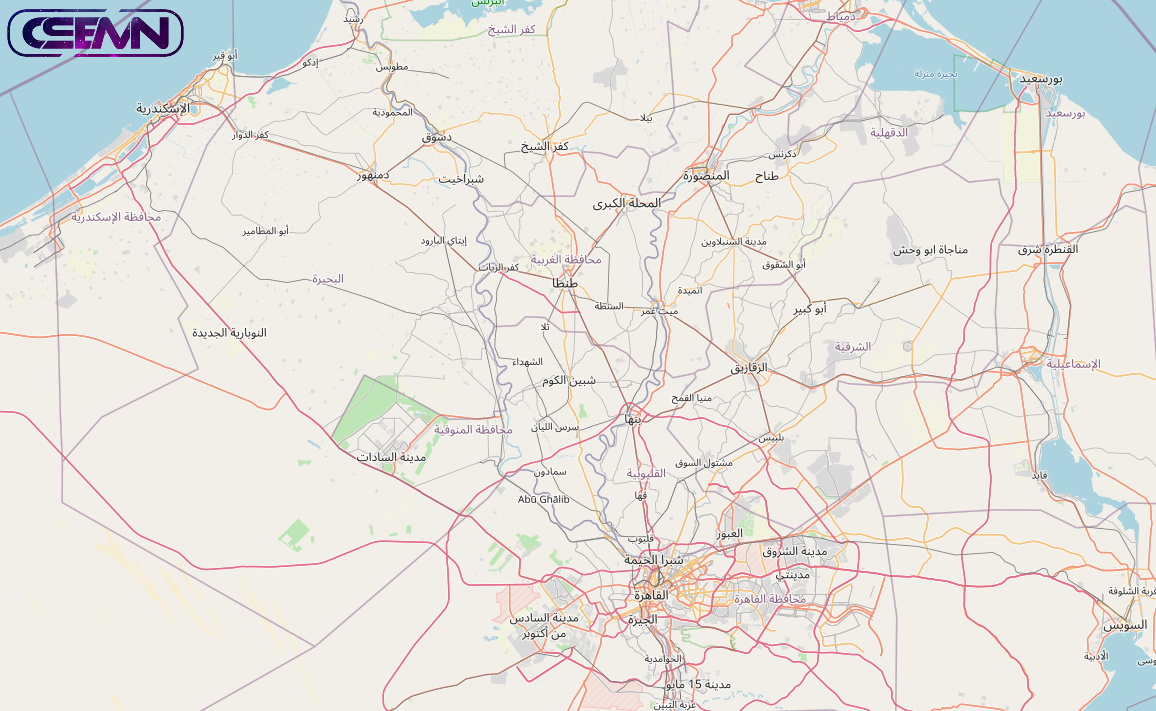
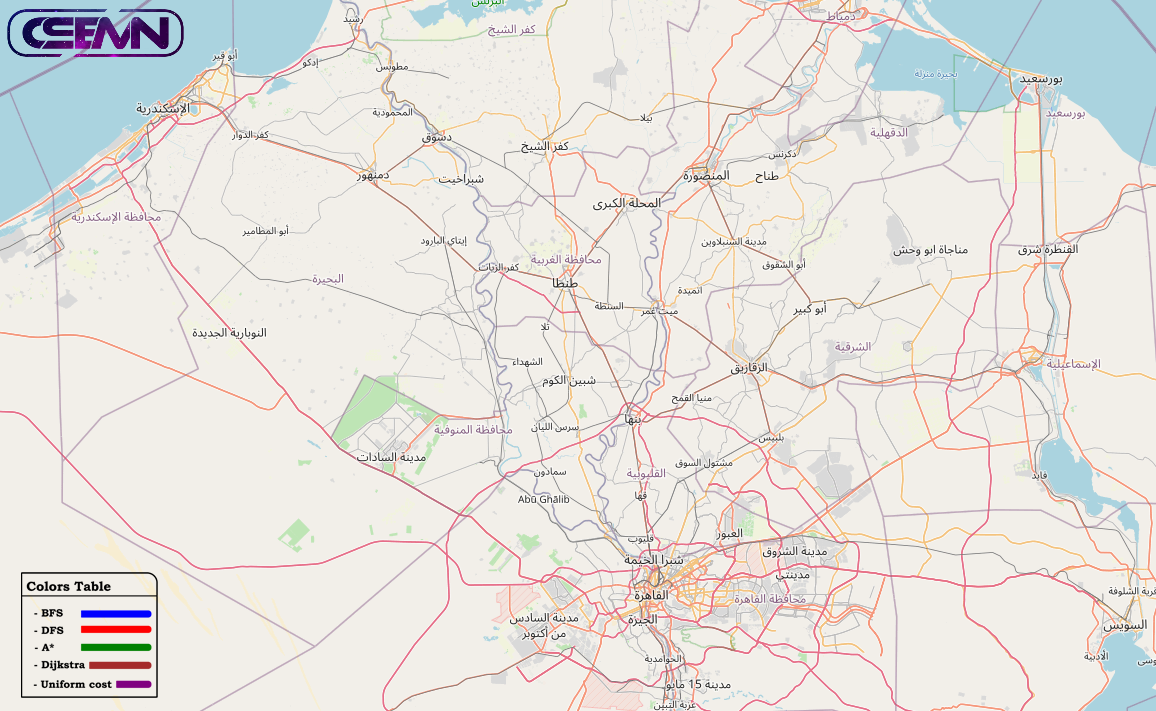
v1.7 update
Major updates:
- BFS implementation fixed
- DFS implementation fixed (need more work)
Minor updates:
- added button to clear map
- added colors to each algorithm arrow drawing

Changed region(s): [[0.0, 0.8045, 0.1557, 0.9902]]

diff --git a/AppGUI/UserEntryFrame.py b/AppGUI/UserEntryFrame.py
@@ -4,8 +4,8 @@ from tkinter import messagebox
 from MiniScripts import CSVManip
 from MiniScripts.GeoCalculator import calc_pixels
 from search_algorithm.a_star import a_star_search
-from search_algorithm.breadth_first import pickBestBFS
-from search_algorithm.deepth_first import pickBestDFS
+from search_algorithm.breadth_first import bfs
+from search_algorithm.deepth_first import dfs
 import time
 from threading import Thread
 
@@ -18,6 +18,7 @@ class UserEntryFrame(Frame):
         Frame.__init__(self, master)
         
         self.lblFrame=LabelFrame(master,text='User Entry')
+        self.drawingColor='black'
         
         #circle all cities on the map
         #self.pinpointAllCities(pinPoint)
@@ -28,9 +29,12 @@ class UserEntryFrame(Frame):
         self.algoSelector = ttk.OptionMenu(self.lblFrame, self.algo, "Uniform Cost","BFS", "DFS","A*","Dijkstra","Uniform Cost")
         self.algoSelector.grid(row=0,column=0,rowspan=2,padx=(10,5))
         self.isThreadRunning=False
-        self.btn=ttk.Button(self.lblFrame,text='GO !!!',command=lambda :self.onClickAction(pinPoint,drawArrow,clearMap))
+        self.btn=ttk.Button(self.lblFrame,text='GO !!!',command=lambda :self.onClickAction(pinPoint,drawArrow))
+        
+        self.btn.grid(row=0,column=2,padx=(0,10))
+        self.btnClear=ttk.Button(self.lblFrame,text='Clear',command=clearMap)
+        self.btnClear.grid(row=1,column=2,padx=(0,10))
         self.btnStat()
-        self.btn.grid(row=0,column=2,rowspan=2,padx=(0,10))
         
        
         self.fromSelector = CitySelector(self.lblFrame,'From',None)
@@ -43,10 +47,12 @@ class UserEntryFrame(Frame):
     def btnStat(self):
         if self.isThreadRunning:
             self.btn["state"] = DISABLED
+            self.btnClear["state"] = DISABLED
         else:
             self.btn["state"] = NORMAL
+            self.btnClear["state"] = NORMAL
 
-    def onClickAction(self,pin_point,draw_arrow,clearMap):
+    def onClickAction(self,pin_point,draw_arrow):
 
         #check if cities exists
         cityFrom=self.fromSelector.value.get()
@@ -67,19 +73,24 @@ class UserEntryFrame(Frame):
             return
         
         
-        clearMap()
+        
         result=list()
         algoName=self.algo.get()
         if algoName=='BFS':
-            result=pickBestBFS(cityFrom,cityTo)
+            result=bfs(cityFrom,cityTo)
+            self.drawingColor='blue'
         elif algoName=='DFS':
-            result=pickBestDFS(cityFrom,cityTo)
+            result=dfs(cityFrom,cityTo)
+            self.drawingColor='red'
         elif algoName=='A*':
             result=a_star_search(cityFrom,cityTo)
+            self.drawingColor='green'
         elif algoName=='Dijkstra':
             result=dijkstra(cityFrom,cityTo)
+            self.drawingColor='brown'
         elif algoName=='Uniform Cost':
             result=uniformCostSearch(cityFrom,cityTo)
+            self.drawingColor='purple'
         
         dataDict=CSVManip.dictCSVdata()
 
@@ -90,12 +101,12 @@ class UserEntryFrame(Frame):
                 x=float(dataDict[result[index]]['lng'])
                 y=float(dataDict[result[index]]['lat'])
                 (x1,y1)=calc_pixels(x,y)
-                pin_point(x1,y1,result[index])
+                pin_point(x1,y1,result[index],self.drawingColor)
                 if index >0 :
                     x=float(dataDict[result[index-1]]['lng'])
                     y=float(dataDict[result[index-1]]['lat'])
                     (x0,y0)=calc_pixels(x,y)
-                    draw_arrow(x0,y0,x1,y1)
+                    draw_arrow(x0,y0,x1,y1,self.drawingColor)
                 time.sleep(0.5)
             self.isThreadRunning=False;
             self.btnStat()

diff --git a/search_algorithm/deepth_first.py b/search_algorithm/deepth_first.py
@@ -1,35 +1,30 @@
 from MiniScripts.CSVManip import getAdjDict
-import random
 
 def dfs(startCity,distCity):
     adj_list=getAdjDict()
     track_list = list()
+    parent=dict()
+    parent[startCity]= None
 
     def dfs_algo(node):
+        
         if (node not in track_list) :
             track_list.append(node)
             
-            for neighbour in random.sample(adj_list[node].keys(),len(adj_list[node].keys())):
+            for neighbour in adj_list[node].keys():
                 if distCity == track_list[-1]:
                     break
-                else:
+                elif neighbour not in track_list:
+                    parent[neighbour]=node
                     dfs_algo(neighbour)
-                    
+                
     dfs_algo(startCity)
-    #print(track_list)
-    return track_list
+    path=list()
+    node=distCity;
 
-# run BFS multiple times and get shortest list
-def pickBestDFS(startCity,distCity):
-    REPEAT_LIMIT=20
-    ouputList=list()
-    for i in range(REPEAT_LIMIT):
-        ouputList.append(dfs(startCity,distCity))
-    ouputList.sort(key=len)
-    # print("------------------")
-    # print(startCity+" -> "+distCity)
-    # print("------------------")
-    # for output in ouputList:
-    #     print(len(output),end=' : ')
-    #     print(output)
-    return ouputList[0]
+    while( node != startCity):
+        path.append(node)
+        node=parent[node]
+    path.append(startCity)
+    path.reverse()
+    return path

diff --git a/search_algorithm/breadth_first.py b/search_algorithm/breadth_first.py
@@ -27,7 +27,7 @@ def bfs(startCity,distCity):
         if u==distCity:
             break;
 
-        for v in random.sample(adj_list[u].keys(),len(adj_list[u].keys())):
+        for v in adj_list[u].keys():
             if not visited[v]:
                 visited[v]=True
                 parent[v]=u
@@ -36,18 +36,13 @@ def bfs(startCity,distCity):
     #if not found redo the algorithm
     while(bfs_traversal_output[-1]!=distCity):
         bfs_traversal_output=bfs(startCity,distCity)
-    return bfs_traversal_output
-
-def pickBestBFS(startCity,distCity):
-    REPEAT_LIMIT=20
-    ouputList=list()
-    for i in range(REPEAT_LIMIT):
-        ouputList.append(bfs(startCity,distCity))
-    ouputList.sort(key=len)
-    # print("------------------")
-    # print(startCity+" -> "+distCity)
-    # print("------------------")
-    # for output in ouputList:
-    #     print(len(output),end=' : ')
-    #     print(output)
-    return ouputList[0]
+    path=list()
+    node=distCity;
+    
+    while(node!=startCity):
+        path.append(node)
+        node=parent[node]
+    
+    path.append(startCity)
+    path.reverse()
+    return path

diff --git a/AppGUI/MapFrame.py b/AppGUI/MapFrame.py
@@ -14,17 +14,17 @@ class MapFrame(Frame):
         self.mapCanvas.pack(fill='both',anchor='nw')
         
     
-    def drawPoint(self,x,y,label):  
+    def drawPoint(self,x,y,label,color):  
         #self.resetCanvas()
         r=3
-        self.drawingList.append(self.mapCanvas.create_oval(x-r,y-r,x+r,y+r,fill='green'))
+        self.drawingList.append(self.mapCanvas.create_oval(x-r,y-r,x+r,y+r,fill=color))
         r=5
-        self.drawingList.append(self.mapCanvas.create_oval(x-r,y-r,x+r,y+r,outline='green'))
+        self.drawingList.append(self.mapCanvas.create_oval(x-r,y-r,x+r,y+r,outline=color))
         self.drawingList.append(self.mapCanvas.create_text(x,y-10,text=label))
         
     
-    def drawLine(self,x0,y0,x1,y1):      
-        self.drawingList.append(self.mapCanvas.create_line(x0,y0,x1,y1,fill='green',width=2.5,arrow=LAST))
+    def drawLine(self,x0,y0,x1,y1,color):      
+        self.drawingList.append(self.mapCanvas.create_line(x0,y0,x1,y1,fill=color,width=2.5,arrow=LAST))
 
     def resetCanvas(self):
         for item in self.drawingList:
